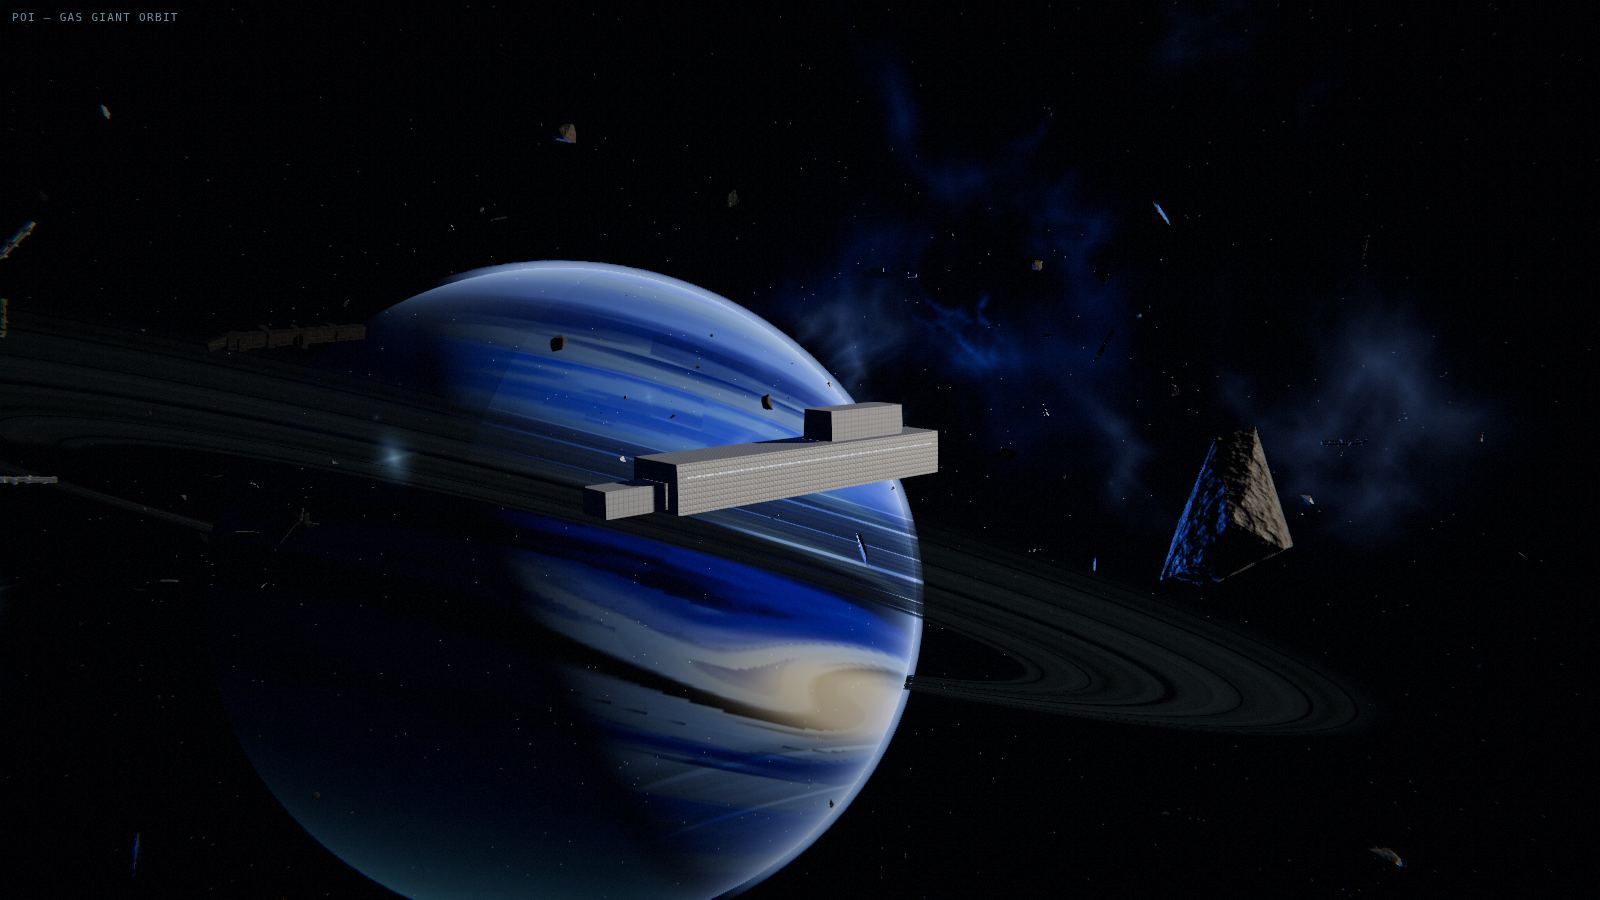
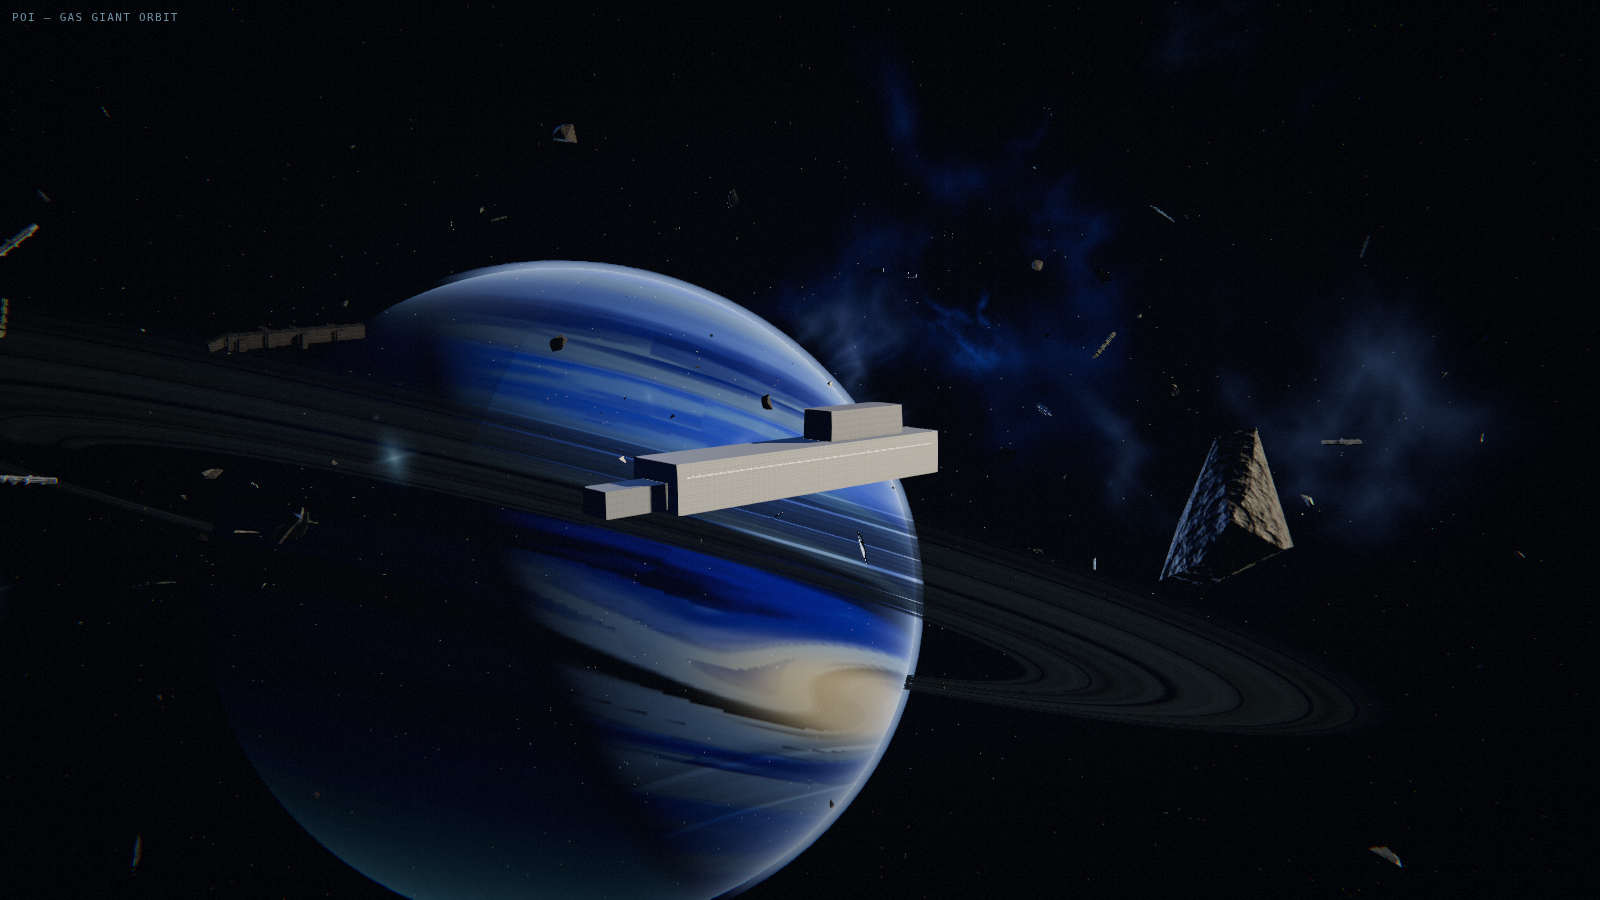
Make the capture harness measure the frames it takes
The independent critic's sharpest finding was about the review pipeline
rather than the game: the shot the manifest describes as "cruiser a bright
speck against the gas giant" contained neither the cruiser nor the gas
giant, and was recorded as ok:true because the screenshot call succeeded.
A harness that only checks whether a PNG got written cannot catch the
defect that matters.

Every shot is now sampled and scored on four statistics - mean luminance,
contrast, clipped fraction and near-black fraction - which go into the
manifest and the console line. Three conditions now fail the run: a frame
with almost no contrast (empty or flat), a frame that is essentially all
black, and a frame with more than 4% of pixels at or above 0.97, which is
the highlight-clipping failure the critic found on every hull.

Also lands the look and geometry fix passes against the critic's defect
list.

Claude-Session: https://claude.ai/code/session_015jvdszNLHKCdWey4BV1AZL

diff --git a/src/probes/cruiser.js b/src/probes/cruiser.js
@@ -103,8 +103,16 @@ export default {
     // One hard key. Low and off the port bow, so the chamfers on the starboard
     // flank rim-light and the port flank falls into near-black. Value contrast on
     // this ship is the lighting doing what the geometry set up.
+    //
+    // The INTENSITY is read from the POI palette, not written here. It used to be a
+    // hardcoded 3.5, which is a pre-r155 number roughly a quarter of what the
+    // palette states, and the probe only looked correct because the hull materials
+    // of the day were bright enough and metallic enough to make up the difference
+    // out of the environment map. The moment the materials were corrected the probe
+    // rendered a near-black ship and blamed the material work for it. A probe that
+    // does not use the game's own numbers cannot verify anything.
     const key = new THREE.DirectionalLight(
-      new THREE.Color().setHex(poi.key.color, THREE.SRGBColorSpace), 3.5,
+      new THREE.Color().setHex(poi.key.color, THREE.SRGBColorSpace), poi.key.intensity,
     );
     key.position.set(0.62, 0.48, 0.62).normalize().multiplyScalar(4000);
     key.castShadow = true;
@@ -120,13 +128,16 @@ export default {
     scene.add(key.target);
 
     // A whisper of planetshine so the shadow side is near-black rather than black.
-    const fill = new THREE.DirectionalLight(
-      new THREE.Color().setHex(poi.fill.color, THREE.SRGBColorSpace), 0.20,
-    );
+    // Stated the way the POI rig states it: the peak channel of the irradiance it
+    // contributes, so a saturated blue does not arrive with its blue channel
+    // rivalling the key's. See world/lighting/poi.js.
+    const fillColor = new THREE.Color().setHex(poi.fill.color, THREE.SRGBColorSpace);
+    const fillPeak = Math.max(fillColor.r, fillColor.g, fillColor.b, 1e-3);
+    const fill = new THREE.DirectionalLight(fillColor, (poi.fill.intensity * 0.5) / fillPeak);
     fill.position.set(-0.7, -0.35, -0.5).normalize().multiplyScalar(4000);
     scene.add(fill);
     scene.add(new THREE.AmbientLight(new THREE.Color().setHex(poi.shadow, THREE.SRGBColorSpace), 0.7));
-    registry.applyEnvironment(scene, POI, 0.28);
+    registry.applyEnvironment(scene, POI, poi.ibl.intensity ?? 0.6);
 
     const keyProxy = new THREE.Object3D();
     keyProxy.position.copy(key.position);

diff --git a/src/art/textures/panelLines.js b/src/art/textures/panelLines.js
@@ -82,8 +82,13 @@ export function panelLayout(rng, opts = {}) {
       return;
     }
 
+    // Split the longer axis MOST of the time, not almost always. At 0.86 the tile
+    // came out as a comb of same-width vertical strakes subdivided the same way,
+    // which at hero distance reads as corrugation rather than as plating. Mixing in
+    // more cross-splits gives neighbouring plates different aspect ratios, which is
+    // what stops the eye locking onto the rhythm.
     let vertical;
-    if (canSplitX && canSplitY) vertical = w >= h ? rng.next() < 0.86 : rng.next() < 0.14;
+    if (canSplitX && canSplitY) vertical = w >= h ? rng.next() < 0.68 : rng.next() < 0.32;
     else vertical = canSplitX;
 
     // Ratio: mostly near the middle, with a long tail so strakes and thin belts appear.
